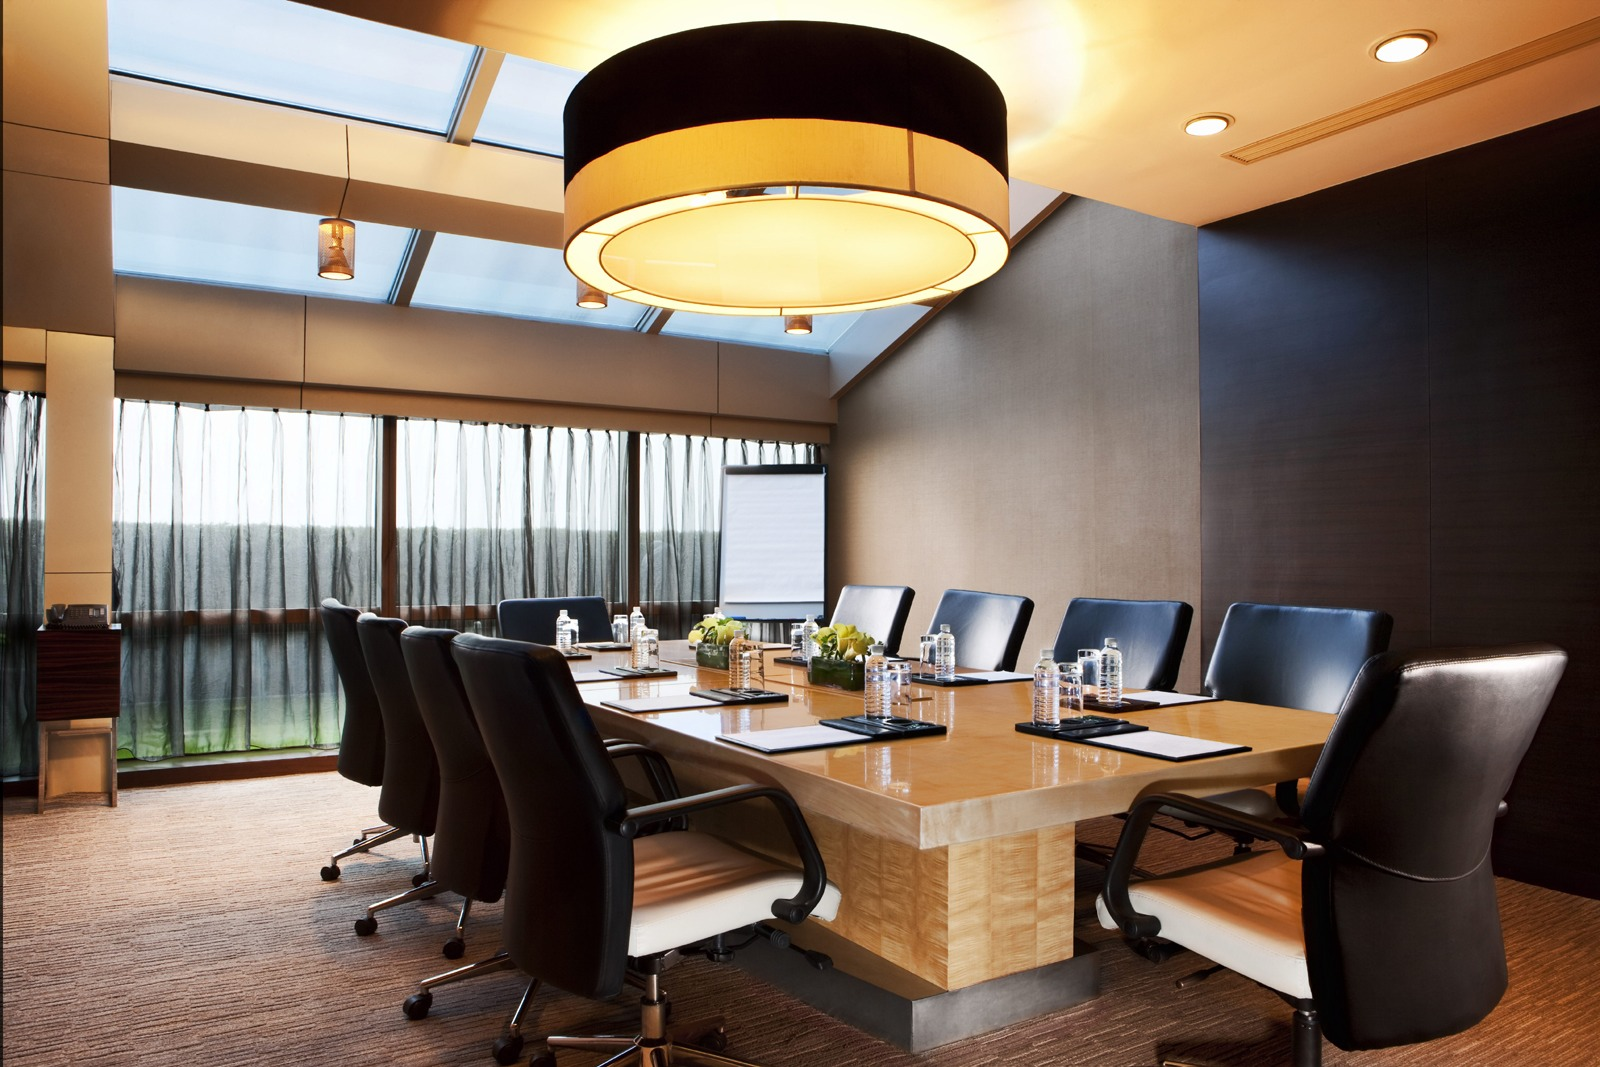
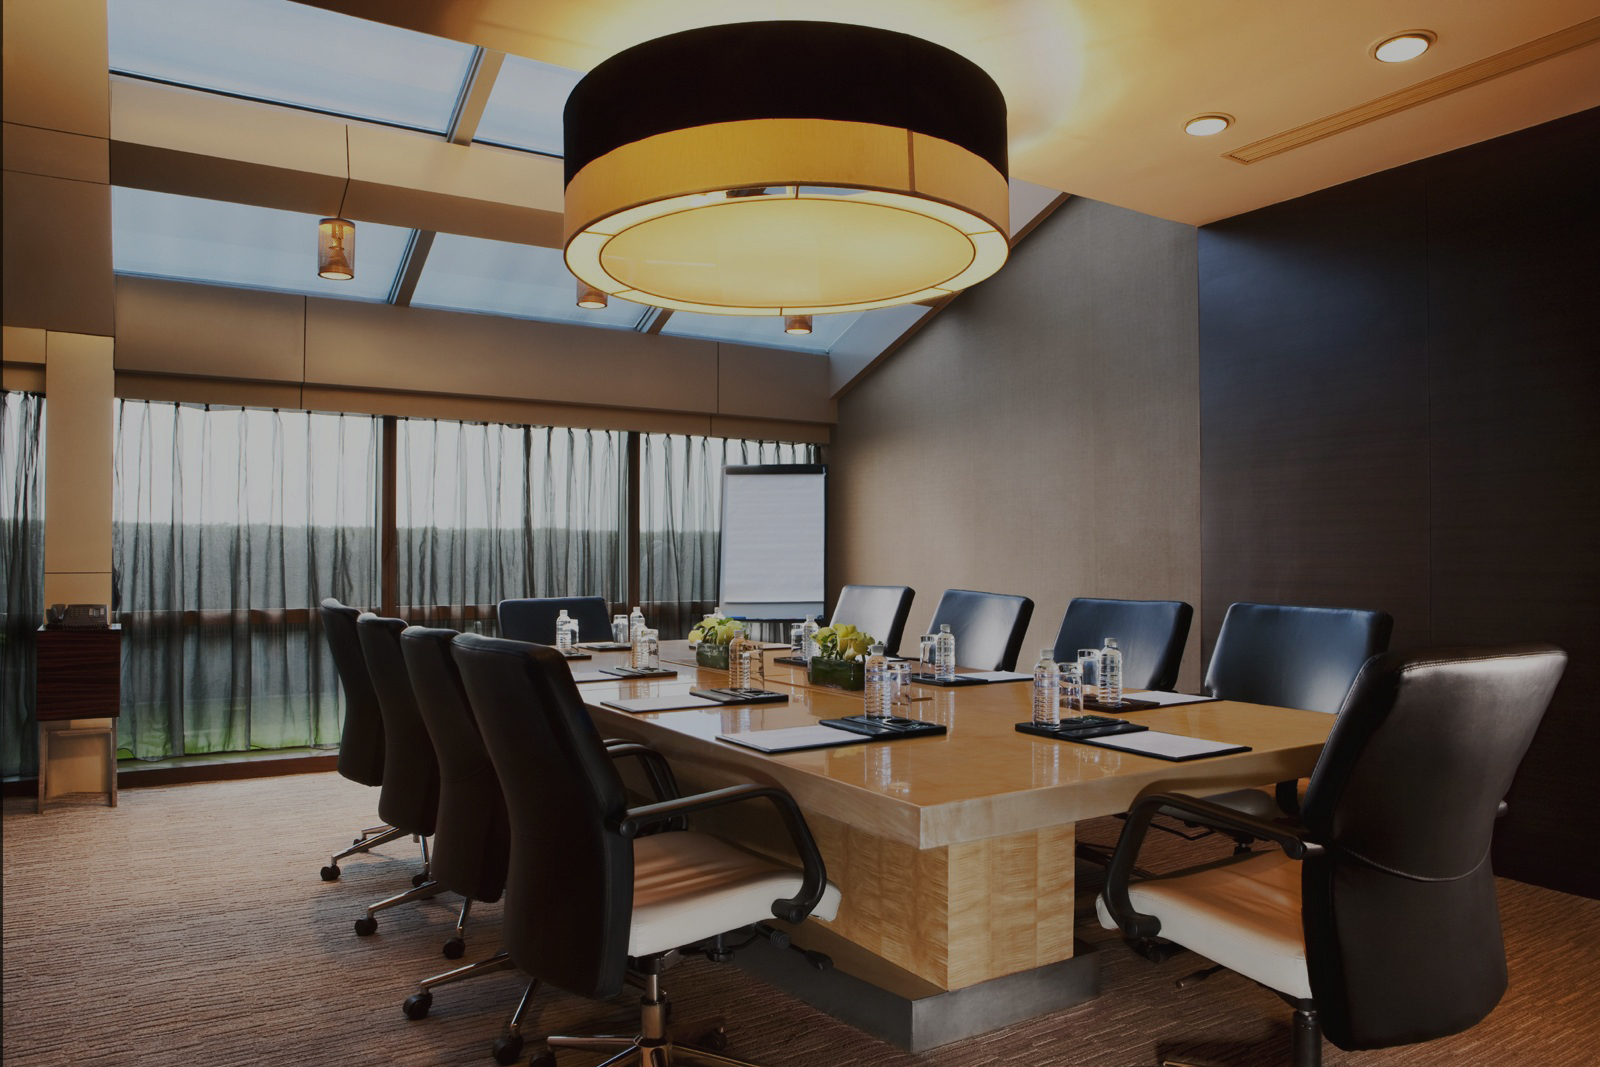
searchbar in progress

diff --git a/themes/blankslate-child/style.css b/themes/blankslate-child/style.css
@@ -202,7 +202,8 @@ overflow: hidden;
 footer li{
 		display: inline;
     font-style: normal;
-      margin-right: 140px;
+      margin-right: 60px;
+      margin-left: 60px;
       position: relative;
       bottom: -20px;
 }
@@ -214,4 +215,14 @@ footer li a{
 
 footer li a:hover {
   color: black;
+}
+
+.search-font{
+  font-size: 10px;
+  text-align: left;
+  float: left;
+}
+
+input + [name]{
+  display: none;
 }

diff --git a/themes/blankslate-child/searchform.php b/themes/blankslate-child/searchform.php
@@ -1,0 +1,68 @@
+<form action="<?php echo home_url( '/' ); ?>">
+	<!-- Ici on affiche le champ « s »
+	mais nous aurions pu également en faire
+	un champ de type hidden avec une valeur vide-->
+  <p>
+  	<input type="text" name="s" placeholder="Ville / Nom du lieu" value="<?php the_search_query(); ?>" id="s">
+  </p>
+  <p>
+    <input type="text" name="s" placeholder="Date" value="<?php the_search_query(); ?>" id="s">
+  </p>
+  <p>
+    <input type="number" name="nombreparticipants" placeholder="Nombre de Participants" min="0" value="<?php
+    if ( isset( $_GET['nombreparticipants'] ) && $_GET['nombreparticipants'] ) {
+      echo intval( $_GET['nombreparticipants'] );
+    } ?>" id="nombreparticipants">
+  </p>
+  <p>
+  	<input type="number" name="prix-maxi" min="0" value="<?php
+  	if ( isset( $_GET['prix-maxi'] ) && $_GET['prix-maxi'] ) {
+  		echo intval( $_GET['prix-maxi'] );
+  	} ?>" id="prix-maxi">
+  </p>
+  <?php
+$equips = array(
+	'ordinateur'  => __( 'Ordinateur' ),
+	'imprimante'  => __( 'Imprimante' ),
+	'wifi'  => __( 'Wifi' ),
+	'television' => __( 'Télévision' ),
+  'enceinte' => __( 'Enceinte' ),
+  'microphone' => __( 'Microphone' ),
+  'paperboard' => __( 'Paperboard' ),
+  'tableau' => __( 'Tableau' ),
+  'projecteur-ecran' => __( 'Projecteur' ),
+  'photocopieuse' => __( 'Photocopieuse' ),
+  'regie-son' => __( 'son' ),
+  'regie-lumiere' => __( 'lumière' ),
+  'cafetariat' => __( 'Cafétariat' ),
+  'cafe' => __( 'Café' ),
+    );
+    ?>
+
+
+    <?php
+
+        $num = 1;
+        $breaker = 5; //How many cols inside a row?
+
+        foreach ( $equips as $key => $equip ) {
+
+            if ($num == 1) echo '<div class="row">'; //First col, so open the row.
+
+                echo '<div class="col-xs-2"> <input type="checkbox" name="equipements[]" class="checkbox-equip" '
+                . 'id="equipment[' . $key . ']" value="' . $key . '"'
+                . checked( in_array( $key, get_query_var( 'equipements' ) ), true, false ) . '> <label for="equipment[' . $key . ']"><p class = "search-font">' . $equip . '</p><img src="/wordpress/wp-content/themes/blankslate-child/images/equipements/'. $key .'.png"/></label> </div>';
+
+            $num++;
+
+            if ($num > $breaker) { echo '</div>'; $num = 1; } // The num arrived at the break-point. Close the row!
+
+        }
+    ?>
+  </div>
+    <div class="row">
+      <div class="col-xs-offset-1">
+	<button type="submit">Rechercher</button>
+</div>
+</div>
+</form>

diff --git a/themes/blankslate-child/search.php b/themes/blankslate-child/search.php
@@ -1,0 +1,32 @@
+<div id="wrapperr">
+	<div id="sidebar-wrapper">
+		<ul class="sidebar-nav">
+			<?php get_sidebar(); ?>
+		</ul>
+		</div>
+  <div class="container">
+<?php get_header(); ?>
+<section id="content" role="main">
+<?php if ( have_posts() ) : ?>
+<header class="header">
+<h1 class="entry-title"><?php printf( __( 'Search Results for: %s', 'blankslate' ), get_search_query() ); ?></h1>
+</header>
+<?php while ( have_posts() ) : the_post(); ?>
+<?php get_template_part( 'entry' ); ?>
+<?php endwhile; ?>
+<?php get_template_part( 'nav', 'below' ); ?>
+<?php else : ?>
+<article id="post-0" class="post no-results not-found">
+<header class="header">
+<h2 class="entry-title"><?php _e( 'Nothing Found', 'blankslate' ); ?></h2>
+</header>
+<section class="entry-content">
+<p><?php _e( 'Sorry, nothing matched your search. Please try again.', 'blankslate' ); ?></p>
+<?php get_search_form(); ?>
+</section>
+</article>
+<?php endif; ?>
+</section>
+<?php get_footer(); ?>
+	</div>
+</div>

diff --git a/themes/blankslate-child/functions.php b/themes/blankslate-child/functions.php
@@ -7,3 +7,15 @@ wp_enqueue_script('bootstrap-js', get_stylesheet_directory_uri(). '/bootstrap/js
 wp_enqueue_script('perso-js', get_stylesheet_directory_uri(). '/scripts/scripts.js');
 }
 add_action( 'wp_enqueue_scripts', 'wpm_enqueue_styles');
+?>
+
+<?php
+add_filter( 'query_vars', 'willy_add_query_vars' );
+function willy_add_query_vars( $vars ){
+	$vars[] = "ville";
+	$vars[] = "chambres";
+	$vars[] = "quartiers";
+	$vars[] = "prix-maxi";
+	$vars[] = "equipements";
+	return $vars;
+}
